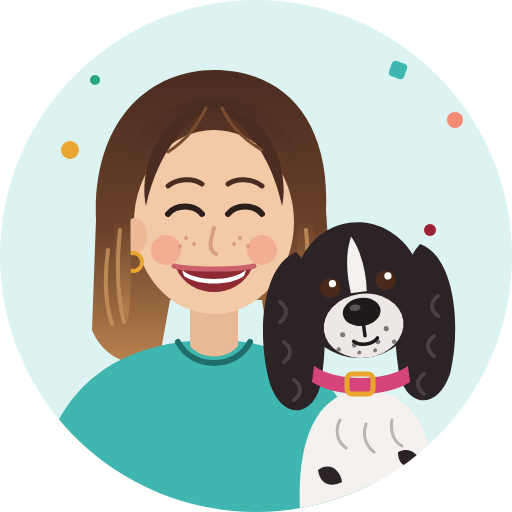
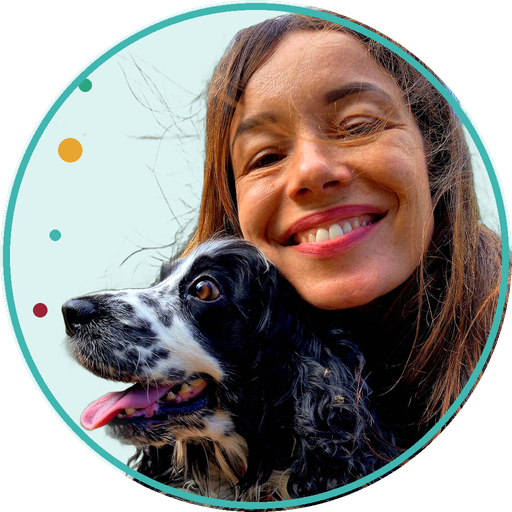
Fondatrice : la vraie photo d'Aurélie et Rita, détourée sur fond Kulky
Claude-Session: https://claude.ai/code/session_01Wusw4yQXqijhUfB2C8zxN9

diff --git a/src/app/a-propos.tsx b/src/app/a-propos.tsx
@@ -27,7 +27,7 @@ export default function APropos() {
 
         <Text style={styles.sousTitre}>Le mot de la fondatrice</Text>
         <View style={[styles.carte, styles.fondatrice]}>
-          <Image source={require('../../assets/aurelie.png')} style={styles.avatar} accessibilityLabel="Aurélie et sa chienne Rita (illustration)" />
+          <Image source={require('../../assets/aurelie.png')} style={styles.avatar} accessibilityLabel="Aurélie et sa chienne Rita" />
           <View style={{ flex: 1, gap: 6 }}>
             <Text style={styles.texte}>Sur mon appli de sport, mes amis enchaînent les kilomètres. Moi, je cours un peu… et je lis beaucoup. Kulky est né d’une envie : garder la trace de ce qu’on vit, et le célébrer ensemble.</Text>
             <Text style={styles.signature}>Aurélie (et Rita), à Toulouse</Text>

diff --git a/site/index.html b/site/index.html
@@ -550,7 +550,7 @@ p { margin: 0; }
   <section class="fondatrice large" aria-labelledby="titre-fondatrice">
     <h2 id="titre-fondatrice" class="cache">La fondatrice</h2>
     <div class="carte-f">
-      <img class="avatar" src="img/aurelie.png" alt="Aurélie, la fondatrice de Kulky, et sa chienne Rita (illustration)">
+      <img class="avatar" src="img/aurelie.png" alt="Aurélie, la fondatrice de Kulky, et sa chienne Rita">
       <div class="dire">
         <span class="chapeau" style="--c: var(--turquoise-f)">C’est moi, la fondatrice</span>
         <p>Sur mon appli de sport, mes amis enchaînent les kilomètres et les records. Moi, je cours un peu… et je lis beaucoup.</p>
